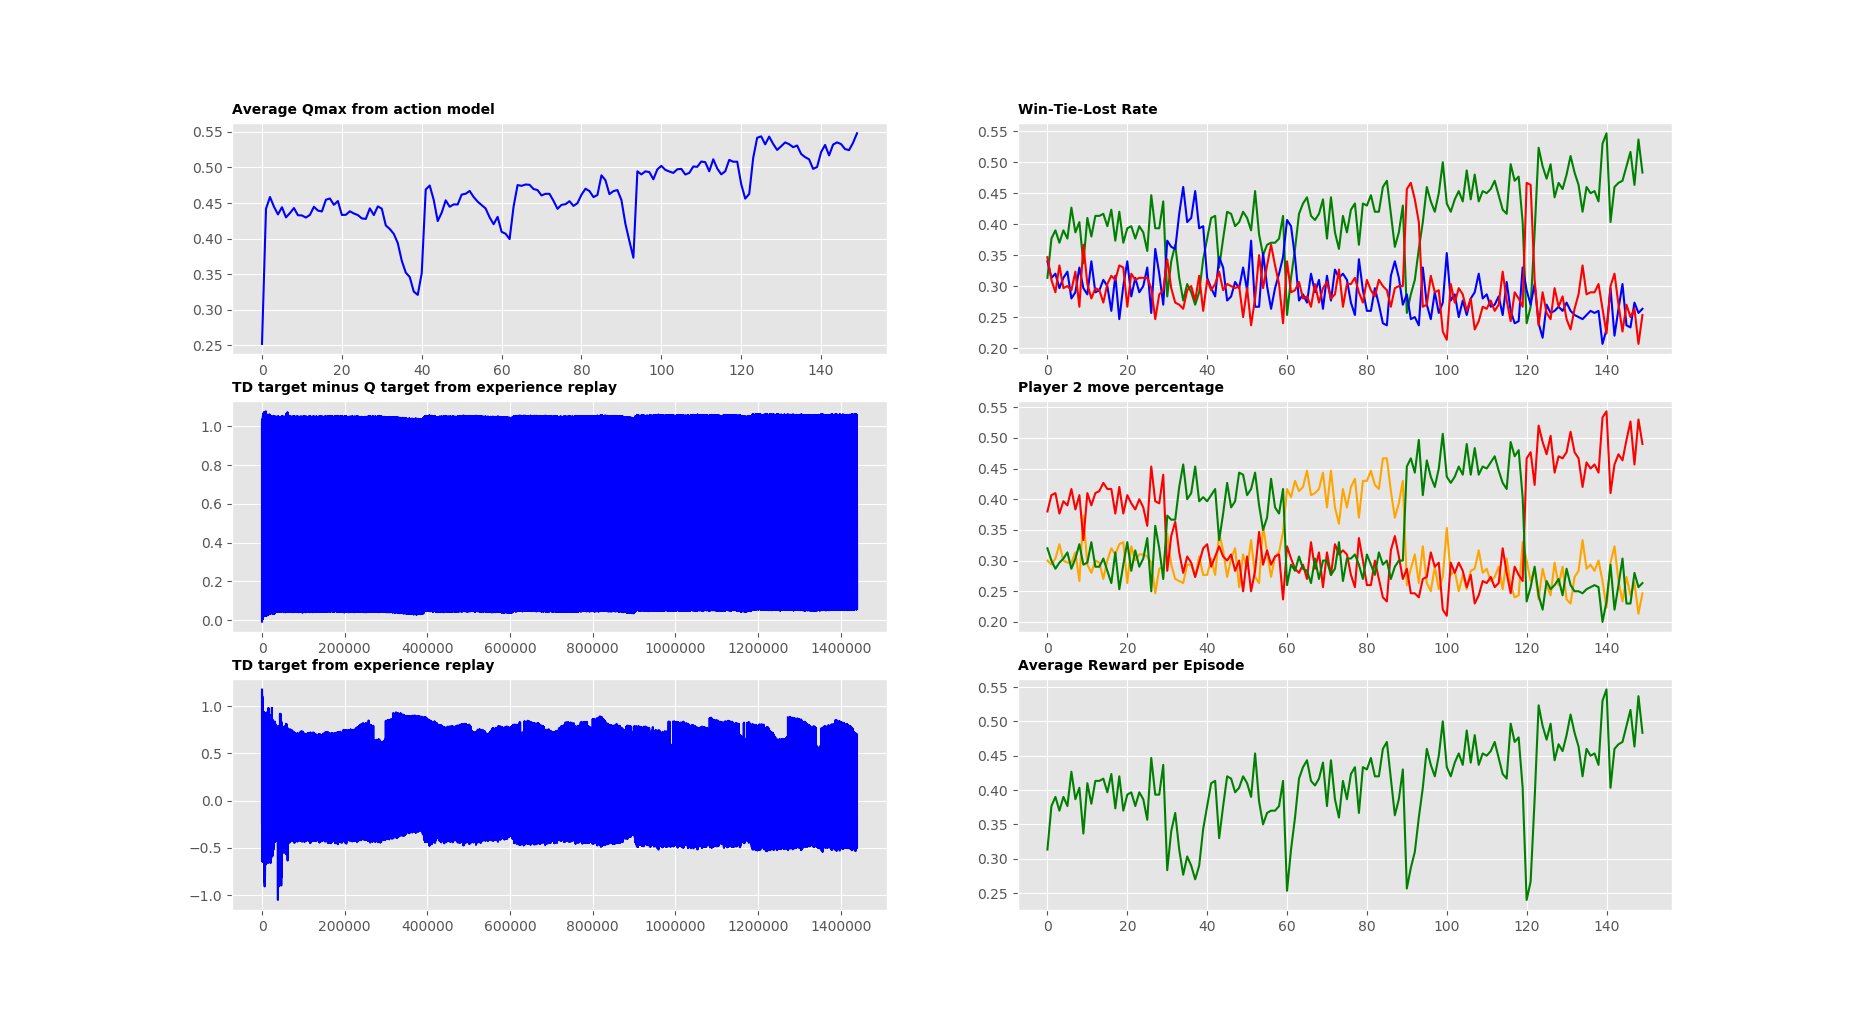
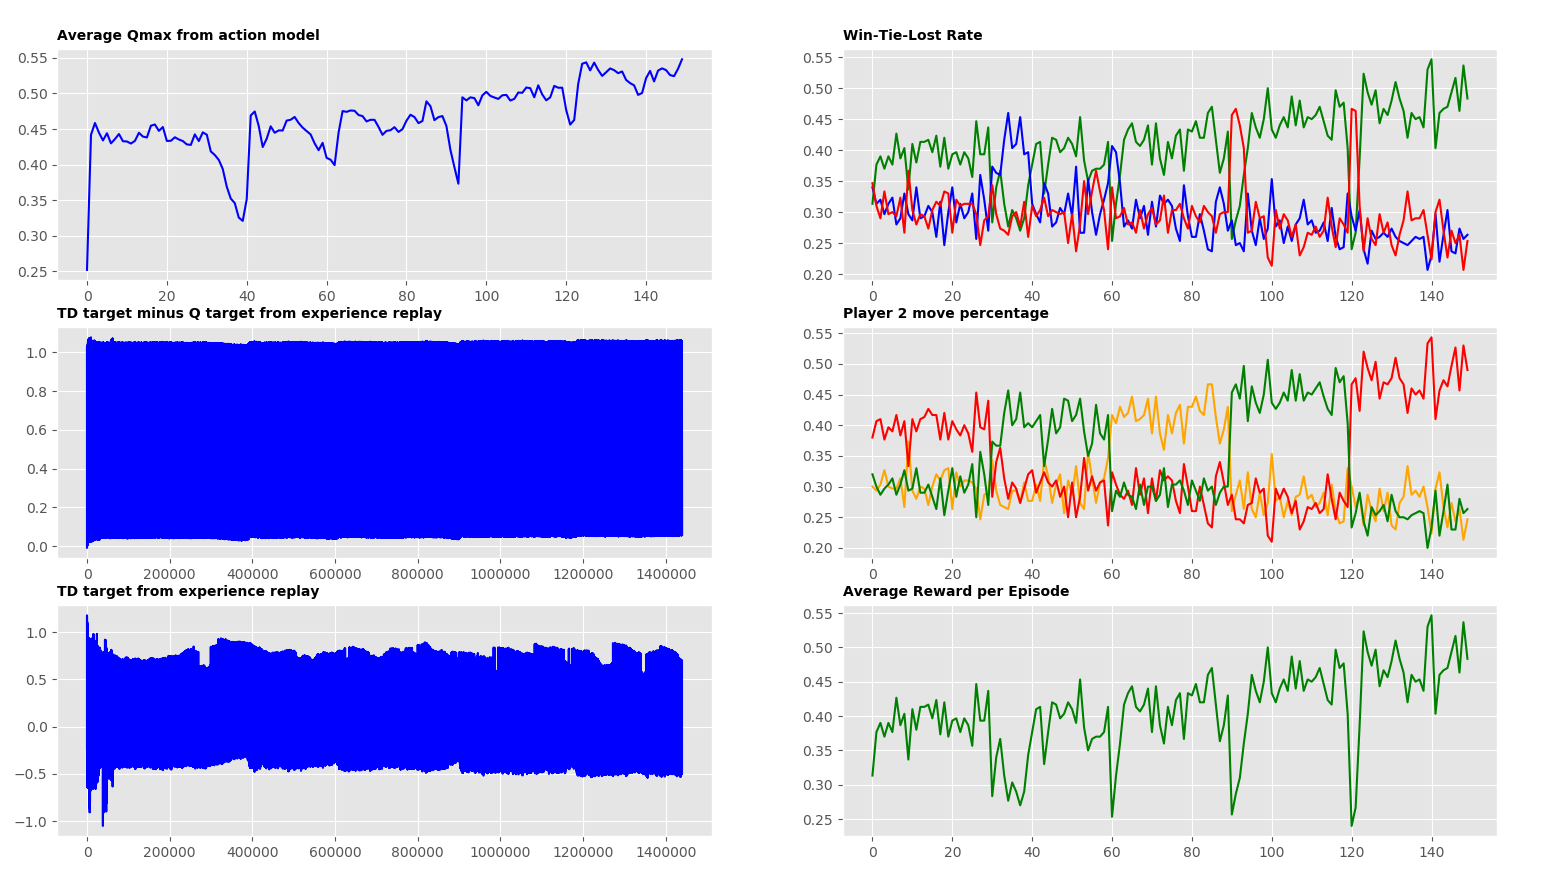
update pics and readme

diff --git a/Readme.md b/Readme.md
@@ -2,7 +2,9 @@
 
 The objective of this project is to construct an AI agent to play a simple 2 players rock-paper-scissors game using reinforcement learning (RL) technique - particularly the double-DQN algorithm.  
 
-In previous design project, we have built a player using simple LSTM-based neural network that is trained using traditional supervised learning method.  The downside of that is the model is effectively static and does not adapt to model drift or fundamental behavioral changes.  With a RL-based approach, we like to see that the AI agent demostrate some ability to counter the changing strategy of the opponent and continue to generate better win rate than the opposing player. 
+In previous design project, we have built a player using simple LSTM-based neural network that is trained using traditional supervised learning method.  The downside of that is the model is effectively static and does not adapt to model drift or fundamental behavioral changes.  With a RL-based approach, we like to see that the AI agent demostrate some ability to counter the changing strategy of the opponent and continue to generate better win rate than the opposing player.  
+
+Note that unlike other RL project in which the AI agent is to learn a task successfully and generalize to other future data (i.e. a form of semi supervised learning using rewards as label), in this particular set up, there is no completion per se.  That is the game never ends, the RL agent simply continues to adapt and adjust as best as it can. 
 
 ## Q-Learning Basics
 
@@ -12,7 +14,7 @@ In its essence, Deep Q-Learning is to learn a "policy" (which in practice is a d
 
 Some of the enhancments utilized in this design over beyond the basic Q-learning (which are introduced mainly be DeepMind in recent years) are:
 
-1) Dual models (hence the term "double") - one to drive the action decision (also sometime refers as online model, behavior model) and one to act as the target model.
+1) Dual models (hence the term "double") - one to drive the action decision (also sometime refers as online model, behavior model) and one to act as the target model.  The inner weights are "tranferred" from the action model to the target model on every move cycle.
 2) Exploiting vs exploration using epsilon greedy method. This is essentia in any RL design since exploration is important, especially during the start of the process, to search in different areas of state space which might lead to better optimal operation position.  When exploring, it is often termed "off-policy" whereas taking an action according to exploitatin is often termed "on-policy".
 3) Experience reply - instead of using most recent history as the learning space, DeepMind introduced the concept of experience reply in which past pass through of the state space is stored in memory.  Such memory are recalled (sampled) at each move and used in the SGD process (thus achieving the reinforcement notion)
 
@@ -22,28 +24,78 @@ Much of the code is adopted from A. Oppermann's blog in Medium. It is an excelle
 
 # RPS High Level Environment 
 
+The environment of this game play is depicted below. It follows the classical RL environment definition.
+
 ![pic1](https://github.com/dennylslee/rock-paper-scissors-DeepRL/blob/master/high_level_play_environment.png)
 
+Inside the "environment" is the embedded player 2 (i.e. the opponent).  This player might adopt different type of play strategy. The interaction contains the following:
 
-# RPS AI player architecture using Double-DQN
+1. action space:  either rock, paper, or scissors that the AI agent (player 1) puts out.
+2. rewards:  this is an indication from the environment back to player 1.  The reward is simply a value of 1 if it is a win for player 1, and 0 otherwise.
+3. state:  this is where the fun is and some creative comes into play (which might affect the player outcome win rate). In this setup, we have design the state space to be:
+  - win, tie, lost indicator: one of the three can be set to a 1 for each particular state
+  - winRateTrend, tieRateTrend, lostRateTrend:  this is a indicator which reflects the moving average is trending positive (set to 1) or not (set to 0).  All three indicators are assessed independently.
+  - winRateMovingAvg, tieRateMovingAvg, lostRateMovingAvg: floating point value between 0 and 1 which indicates the percentage of that rate based on configured moving average window size.
+
+
+## RPS AI player architecture using Double-DQN
+
+The overall architecture of the double-DQN agent design is depicted below.  The yellow section is coded inside the step method and is iterated over experience replay batch size of N samples.  The green section is the design that control the exploration vs exploitation action.  The oragne section is the main action model (on policy).  This is the main model in which we want to find the optimal policy for making the best possible action.  The action model is transferred with discounted to the target model periodically. 
 
 ![pic2](https://github.com/dennylslee/rock-paper-scissors-DeepRL/blob/master/double_dqn_architecture.png)
 
+(Nothing really special here - just a block diagram version of the commonly published Dobule-DQN pesudo code)
 
-## Player 2 - "the opponent"
+## Player 2 ("the opponent") behaviors
 
+The player 2 code is embedded in a separate moduled called randmove. Player 2 can play 3 modes which need to be manually configure:  
+
+1. "PRNG" which uses python Gaussian distribution with a controllable mean and sigma value.  The larget the sigma, the larger the spread and the more random the sequence appears (which makes it harder to predict).
+2. "SEQ" this is a simple manually typed in sequence of rock-paper-scissors.
+3. "LFSR"  this is a N-bits pseudo-random generator implemented based on linear feedback shift register of certain length.  Depending on the tap location, it might or might exhibit maximal length cycle. 
+
+The results below is based mainly on PRNG in which the play strategy is as following:
+
+1) the overall game play is divided into N (=5) equal length moves called stages
+2) the moves of player 2 in each stage is generated using the PRNG Guassian distribution with different dominant move (rock or paper of scissors)
+3) the sigma value is also decreases as the stage progress 
+
+The objective is to observe if the RL agent can adjust to the changing behaviors and maintain a win rate.
+ 
+## DNN design
+
+In this project, we used a simple full mesh DNN which proves to be one of the main limitation since the RPS game is essentially a time series (sequence) problem. The DNN model can learn distribution and it has no notion of sequence. 
+
+For a high dimensional PRNG like the Guassian generator, a DNN (especially a small one) has no hope in detecting the sequential pattern.  However, it is capable in understanding the distribution statistically and its play strategy is effectively based on observing shift in statistics. 
 
 ## Hyperparameters
 
-## Results
+1. memory batch size = 32: the larger batch, the more reinforcement is used on each round making the convergence faster but would also make adaptation slower. 
+2. moving window size = 8: change the smoothing factor of moving average state variables.
+3. DNN layers = 3:  effectively the entropy of the NN and its ability to learning the distribution
+4. DNN nodes = 64: same as above
+action to target model transfer learning (tau): how fast the transfer mimic after the action model. (we didn't play much around this one)
+5. reward system = 1 for win, 0 otherwise: using simple reward and allows the complexity of adaptation controlled by the NN design and the state space design.
+6. state design = too much state indicatores is a waste of computation resource since not all state variables are important.  Too little would hinder what the RL agent observes thus limits its policy forming ability. 
+7. epsilon: exploration percentage controlled in conjunction with the decay rate.  Note that there is a minimum value which is important to the adaptative effective since the system will continue to explore off-policy moves and it is how it discovers new opponent's behavior. 
 
+# Results
 
+The player 2 move percentage clearly depictes the changing strategy across the different stages of the game - each stage with different dominant moves and distribution sigma.  Player 1 (RL agent) seems to successfully adapt to the change and eventually win more due to the weakened player 2 behaviors (i.e. it gets less random over time).  From that perspective, the code has successfully achieved its main objective. 
+
+However, it is somewhat disappointing that win rate in any state does not outperfrom the statistical behaviors of its opponent since the DNN architecture has the inherent limitation as mentioned in the earlier section. 
 
 ![pic3](https://github.com/dennylslee/rock-paper-scissors-DeepRL/blob/master/main_results_plot.png)
 
-## Future Works 
+The max Q value of action model is also plotted.  It shows a nice convergenece over the length of game. Corresponding the Q-value is upsetted during the transition from one stage to another when the opponent changes play strategy.  During that time, reward is no received based on the previous policy's strategy and the Q-value suffered.  However, the exploration allows new policy to be learnec by building up new memories and the new winning counter-move bubbles back up to the top.  
 
-## Reference
+# Future Works 
+
+Change to a LSTM based model architecture might significantly improve the win rate. 
+
+We need to further understand the inner working of Q values in the target model section of the system.  There is no easy way to illustrate its inner working to show the adaptability yet. 
+
+# Reference
 
 1. Mnih, et.al.  "Playing Atari with Deep Reinforcement Learning", 2013
 2. Hasselt, et.al. "Deep Reinforcement Learning with Dobule Q-learning", 2015
